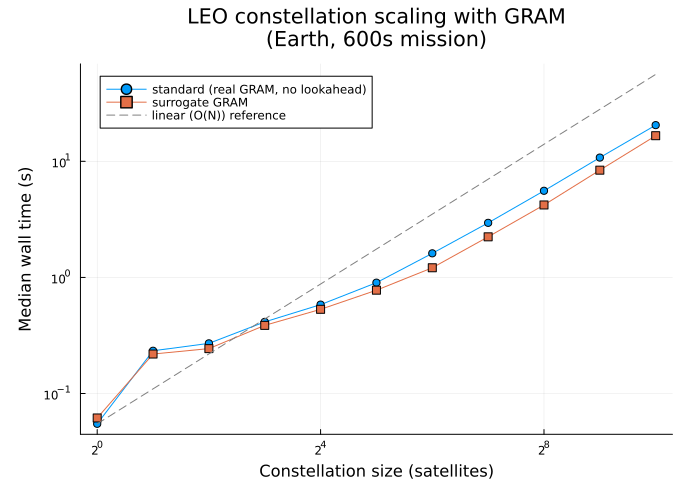
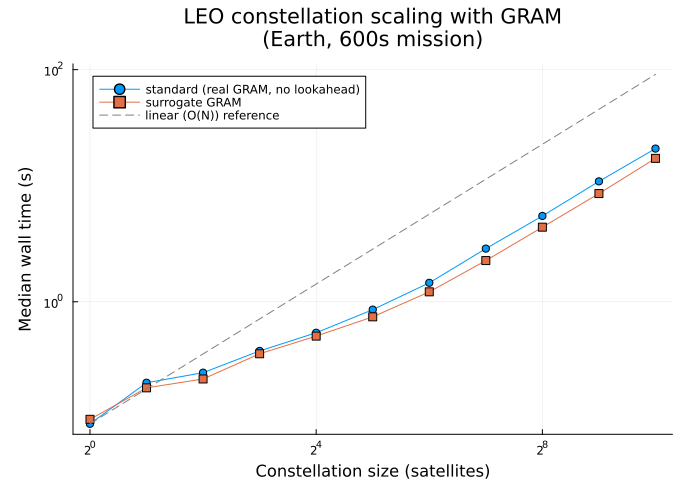
Updated docs

diff --git a/benchmarks/studies/gram_mars_fix_and_constellation_scaling/PARALLELIZATION_CURRENT_STATE.md b/benchmarks/studies/gram_mars_fix_and_constellation_scaling/PARALLELIZATION_CURRENT_STATE.md
@@ -9,9 +9,18 @@ from commit history and the two other docs in this folder
 `THREAD_ALLOCATION_AND_GRAM_CONCURRENCY_HANDOFF.md`'s Findings 1-7), which
 remain the detailed, dated record this document summarizes.
 
-**Nothing described below as "uncommitted" has been pushed.** Only the GRAM
-constructor lock and CSPICE/SPICE lock unification (first bullet below) are
-committed and pushed.
+**Everything described in this document is now committed** (parent repo
+`1ba63a82` + `f857a41c`, submodule `c7b66e0`). Push status as of this
+writing: the parent repo's `parllelization_paper` branch is already in sync
+with `origin/parllelization_paper` (confirmed via `git fetch` + `git
+rev-list`) -- neither commit was pushed by an explicit `git push` in this
+session, so this was pushed some other way (auto-sync, or by the user
+directly) and is worth confirming with the user rather than assumed. The
+submodule's `c7b66e0` is *not* on `origin/main` yet (1 commit ahead locally)
+-- push it explicitly if the parent's submodule pointer update should
+resolve for anyone else who clones/pulls. Any "uncommitted" language left
+below is a holdover from when this doc was first written and should be read
+as historical, not current.
 
 ## 1. What's fixed
 
@@ -26,7 +35,7 @@ threads racing on what is, underneath, the *same* global CSPICE state.
 so every GRAM density call and every SPICE ephemeris call serialize against
 each other, not just against their own kind.
 
-### 1b. GRAM model construction thread-safety (uncommitted, in the `data/GRAMSuite.jl` submodule)
+### 1b. GRAM model construction thread-safety (committed: submodule `c7b66e0`)
 
 Density *sampling* (`getDensity`/`density_state`/`point_density_state`) was
 already correctly locked. Model *construction*
@@ -38,7 +47,7 @@ caused every native-GRAM Monte Carlo/ensemble campaign to crash outright at
 `outer_workers >= 2` before this work. Fixed by wrapping the constructor body
 in the same `_with_gram_lock`/`GRAM_LOCK` used for sampling.
 
-### 1c. World-age / `invokelatest` fixes (uncommitted, same submodule)
+### 1c. World-age / `invokelatest` fixes (committed: submodule `c7b66e0`)
 
 A second, unrelated bug surfaced only by the new `:process` route (section 2):
 GRAM's native wrapper module is dynamically `Base.include`d on first-ever
@@ -68,7 +77,7 @@ plain-data constructor arguments, reconstruct via the now-locked constructor
 on the receiving side) -- needed for a `SimulationConfiguration` carrying a
 GRAM density model to cross a `Distributed` process boundary at all.
 
-### 1d. Density-callback 16-thread auto-gate made density-model-aware (uncommitted)
+### 1d. Density-callback 16-thread auto-gate made density-model-aware (committed: parent `f857a41c`)
 
 Unrelated to the GRAM/CSPICE work above, but the same "parallelization
 correctness/tuning" family. `SPACEAGORA_DENSITY_CALLBACK_PARALLEL=auto`'s
@@ -88,7 +97,7 @@ unconditional 16-thread floor).
 ## 2. What's new: `SpaceAGORA.ParallelProcess`
 
 A shared, auto-bootstrapping `Distributed` worker pool
-(`src/parallel/process/`, uncommitted), wired into `run_monte_carlo` and
+(`src/parallel/process/`, committed: parent `1ba63a82`), wired into `run_monte_carlo` and
 `run_constellation_ensemble`'s adaptive `threads=:auto` routing as a real
 `:process` outer-parallel route -- separate OS processes, so there's no
 shared native GRAM/CSPICE global state to contend over in the first place.
@@ -237,21 +246,29 @@ folder; full before/after table in the handoff doc's Finding 6.
 
 | Change | Location | Status |
 |---|---|---|
-| GRAM/SPICE lock unification | parent repo + submodule | **committed, pushed** |
-| GRAM constructor lock | submodule | uncommitted |
-| World-age/`invokelatest` fixes | submodule | uncommitted |
-| Serialization for GRAM models | submodule | uncommitted |
-| `SpaceAGORA.ParallelProcess` | parent repo (`src/parallel/process/`) | uncommitted |
-| Adaptive routing `:process` wiring | parent repo | uncommitted |
-| New/extended benchmarks (this folder) | parent repo | uncommitted |
-| `export`/`@doc`/`checkdocs`/generated-API-page entries for `ParallelProcess` | parent repo (`src/SpaceAGORA.jl`, `docs/make.jl`, `docs/public_api_symbols.jl`) | uncommitted, **done and verified** (`docs/make.jl` builds clean) |
-| Density-callback lock-free auto-gate | parent repo (`src/parallel/policy/env_config.jl`, `src/core/types/runtime_types.jl`, `src/simulation/callbacks/density_callbacks/config.jl`) | uncommitted, **done and verified** |
-| Phase 3 fix: `outer_parallel_active` gating for `_rhs_execution_plan`'s 3 multi-worker branches | parent repo (`src/simulation/engine/setup.jl`, `src/core/types/runtime_types.jl`) | uncommitted, **done and verified** (direct repro + full test suite) |
+| GRAM/SPICE lock unification | parent repo + submodule | **committed** (submodule `b66e1b8`, parent `444a23c5`), **pushed** |
+| GRAM constructor lock | submodule | **committed** (`c7b66e0`, bundled with the row below) |
+| World-age/`invokelatest` fixes | submodule | **committed** (`c7b66e0`), **not pushed** (`origin/main` for the submodule is 1 commit behind) |
+| Serialization for GRAM models (both submodule and `ext/SpaceAGORAGRAMSuiteExt.jl` wrapper layers) | submodule + parent | **committed** (submodule `c7b66e0`, parent `1ba63a82`) |
+| `SpaceAGORA.ParallelProcess`, `warmup_fn` cold-start fix | parent repo (`src/parallel/process/`) | **committed** (`1ba63a82`) |
+| Adaptive routing `:process` wiring | parent repo | **committed** (`1ba63a82`) |
+| New/extended benchmarks (this folder) | parent repo | **committed** (`1ba63a82`) |
+| `export`/`@doc`/`checkdocs`/generated-API-page entries for `ParallelProcess` | parent repo (`src/SpaceAGORA.jl`, `docs/make.jl`, `docs/public_api_symbols.jl`) | **committed** (`1ba63a82`), verified (`docs/make.jl` builds clean) |
+| Density-callback lock-free auto-gate | parent repo (`src/parallel/policy/env_config.jl`, `src/core/types/runtime_types.jl`, `src/simulation/callbacks/density_callbacks/config.jl`) | **committed** (`1ba63a82`), verified |
+| Phase 3 fix: `outer_parallel_active` gating for `_rhs_execution_plan`'s 3 multi-worker branches | parent repo (`src/simulation/engine/setup.jl`, `src/core/types/runtime_types.jl`) | **committed** (`1ba63a82`), verified (direct repro + full test suite) |
+| Golden regression fixture (`test/golden/agora_earth_regression.csv`) for the previously-`@test_skip`'d "AGORA Earth Regression (Golden)" test | parent repo | **committed** (`1ba63a82`) |
 
-`test/suites/01_contract_and_api_tests.jl` has the user's own unrelated
-pre-existing WIP mixed into the same file -- committing the GRAM_LOCK
-contract-test fix needs patch-level staging (`git add -p`), not a whole-file
-add.
+`test/suites/01_contract_and_api_tests.jl` had the user's own unrelated
+pre-existing WIP (an `ODEParams{N}` -> `ODEParams(n_sats=N, ...)` refactor,
+removing `ODEParams`/`SharedBuffers`'s `N_sats` type parameter in favor of a
+runtime field) mixed into the same file as the GRAM_LOCK contract-test fix --
+resolved via patch-level staging (hand-built `git apply --cached` patches for
+the isolated hunks, not a whole-file add) so the two changes landed in
+separate commits: the GRAM_LOCK hunk is part of `1ba63a82`; the user's own
+refactor (touching many more files across `src/`, `test/`, and
+`benchmarks/studies/`, unrelated to this document's parallelization scope)
+was committed separately afterward as `f857a41c`, excluding two `.png` plot
+outputs left for regeneration.
 
 ## 6. Where to look next
 

diff --git a/docs/src/user/parallel_execution.md b/docs/src/user/parallel_execution.md
@@ -206,6 +206,52 @@ inside another campaign's worker, where `SPACEAGORA_OUTER_PARALLEL_ACTIVE` is
 already set) yield to the enclosing split: they execute serially and record no
 feedback, so contended timings never poison the shared route statistics.
 
+The spherical-harmonics gravity SIMD batch route is a separate hot path that
+fires on every RHS/ODE step rather than once per sample, so historically it
+did not check `SPACEAGORA_OUTER_PARALLEL_ACTIVE` before spawning its own
+nested worker batch — under `:threads` outer parallelism this produced severe
+nested contention (anywhere from ~1x overhead to multi-minute hangs on
+otherwise-identical runs). It now defaults to running serially whenever outer
+parallelism is active. Only set `SPACEAGORA_HARMONICS_BATCH_ALLOW_WITH_OUTER=1`
+if you have measured that splitting the thread budget between outer workers
+and the harmonics batch is actually faster for your workload; the default is
+the safe choice.
+
+### Process-backend outer parallelism
+
+When the outer-route bandit picks `:process` (or when you want to control it
+directly), campaigns dispatch to `SpaceAGORA.ParallelProcess`, a small
+`Distributed`-based worker pool built for this purpose:
+
+```julia
+pool = campaign_process_pool()
+worker_ids = ensure_process_workers!(pool, 8)
+```
+
+- `campaign_process_pool()` returns the process-global `ProcessPool` that
+  `threads=:auto` campaigns already share; reusing it avoids repaying the
+  one-time `SpaceAGORA`/`GRAMSuite` worker precompilation cost on every call.
+- `ensure_process_workers!(pool, n; warmup_fn=nothing)` grows the pool to at
+  least `n` workers (spawning only the shortfall via `addprocs`), bootstraps
+  each new worker with `SpaceAGORA`, `GRAMSuite` (best-effort), and the
+  default SPICE kernel set, and returns the current worker ids. Pass
+  `warmup_fn` — a zero-argument closure that mirrors the real per-sample call
+  — to also pay a new worker's full JIT/specialization cost once up front
+  (measured at roughly 70 s cold vs. a fraction of a second warm) instead of
+  inside the first real, timed dispatch.
+- `shutdown_process_pool!(pool)` removes every worker via `rmprocs` and
+  clears the pool; mainly useful for tests, since campaign code otherwise
+  leaves the process-global pool warm across calls by design.
+
+Each process worker is started with `--threads=1`, so it does not share the
+coordinator's Julia thread pool: inner thread-based parallelism inside a
+worker's own `run_simulation` call is unaffected by how many process workers
+are active. A campaign built on a non-default SPICE kernel directory, or a
+non-Earth-primary mission whose kernels aren't in the shared default set,
+must still furnish its own kernels on the pool's workers (for example via
+`remotecall_wait` on `ensure_process_workers!`'s return value) before
+dispatching.
+
 ### GRAM atmosphere models in threaded campaigns
 
 Native GRAM calls are serialized through a single process-wide lock by default,
@@ -273,13 +319,22 @@ of paying per-timestep thread dispatch across satellites) and lets each
 satellite keep its own adaptive step size (instead of forcing every satellite
 to the global minimum step).
 
-Current limitation: with in-process worker threads, per-step
-environment-variable configuration reads in the RHS and callback plumbing
-serialize concurrent members (Julia `ENV` access is process-global), which can
-erase the outer-parallel gain for light dynamics. Until those reads are hoisted
-to run setup, prefer process-based outer parallelism for large campaigns — the
-per-satellite split applies the same way with one satellite per worker process
-(see [Distributed and HPC](../distributed_hpc.md)).
+Current limitation: with in-process worker threads (the `:threads` outer
+route), per-step environment-variable configuration reads in the RHS and
+callback plumbing serialize concurrent members (Julia `ENV` access is
+process-global), which can erase the outer-parallel gain for light dynamics.
+
+The `:process` outer route avoids this: each satellite is dispatched to its
+own OS process with its own `ENV`, GRAM lock, and thread pool, so members
+never contend on process-global state. Pass `threads=:auto` and the
+outer-route bandit (`select_outer_route!`) will pick `:process` itself for
+workload shapes where it wins, auto-bootstrapping a `Distributed` worker pool
+via `ensure_process_workers!` — no manual `addprocs` call or cluster setup is
+required for this library-level path. See
+[Process-backend outer parallelism](#process-backend-outer-parallelism)
+below. Multi-node/scheduler launches for benchmark and study scripts are a
+separate, explicit-`addprocs` path — see
+[Distributed and HPC](../distributed_hpc.md).
 
 The runner refuses configurations with guidance, navigation, or control
 effectors, because effectors that coordinate satellites cannot act across

diff --git a/docs/src/distributed_hpc.md b/docs/src/distributed_hpc.md
@@ -20,8 +20,9 @@ What to read next:
 - [Maintainer Overview](maintainer/index.md)
 
 SpaceAGORA's supported distributed execution surface today is centered on
-multi-process benchmark and study workflows, plus deterministic parallel-policy
-hint persistence.
+multi-process benchmark and study workflows, self-bootstrapping process-backend
+outer parallelism for library-level campaigns, and deterministic
+parallel-policy hint persistence.
 
 This is not a promise that every runtime path is cluster-hardened. It is the
 documented path that currently has real ownership in the repository.
@@ -43,6 +44,56 @@ The key environment knobs are:
 
 Use `.` (the root project) as the worker project unless you have a deliberate
 reason to point workers at a different environment.
+
+## Campaign-level process backend
+
+For library-level campaigns (`run_monte_carlo`, `run_constellation_ensemble`),
+process-worker parallelism does not require any of the manual `addprocs` or
+scheduler setup below. Passing `threads=:auto` lets the adaptive outer-route
+bandit choose the `:process` route itself for workload shapes where it wins,
+and auto-bootstraps a `Distributed` worker pool through
+`SpaceAGORA.ParallelProcess`:
+
+```julia
+result = run_monte_carlo(1:100; threads=:auto) do seed
+    run_simulation(make_config_for_seed(seed); return_solution=true)
+end
+```
+
+Under the hood this uses `campaign_process_pool()` (the process-global
+`ProcessPool` shared across campaigns in the session) and
+`ensure_process_workers!(pool, n; warmup_fn=...)`, which spawns only the
+worker shortfall, bootstraps each new worker with `SpaceAGORA`, `GRAMSuite`
+(best-effort), and the default SPICE kernel set, and optionally pays a
+representative call's JIT/specialization cost once per new worker (measured
+at roughly 70 s cold vs. a fraction of a second warm) via `warmup_fn` instead
+of inside the first real, timed dispatch. Each process worker runs with
+`--threads=1`, so it does not contend with the coordinator's thread pool.
+`shutdown_process_pool!(pool)` tears the pool down; campaign code otherwise
+leaves it warm across calls by design.
+
+See [Parallel Execution: Process-backend outer parallelism](user/parallel_execution.md#process-backend-outer-parallelism)
+for the full walkthrough. This path is entirely separate from the
+scheduler/`addprocs`-based benchmark path documented above — it needs no
+`SPACEAGORA_PERF_PROCS` or worker-project configuration, since the pool
+bootstraps itself against the coordinator's own active project.
+
+Two related tuning knobs affect how outer- and inner-parallel work share a
+machine's threads once a route is chosen:
+
+- `SPACEAGORA_HARMONICS_BATCH_ALLOW_WITH_OUTER` (default `0`) — the
+  spherical-harmonics gravity SIMD batch route fires once per RHS/ODE step
+  rather than once per sample, so by default it runs serially whenever outer
+  parallelism (`:threads` or `:process`) is active, rather than spawning a
+  nested worker batch that would contend with the outer split. Only enable
+  this after measuring that splitting the thread budget helps your workload.
+- `SPACEAGORA_DENSITY_CALLBACK_PARALLEL` (`off`/`auto`/`on`) — the density
+  callback's inner-parallelism thread floor is lower for the lock-free GRAM
+  surrogate than for native GRAM (which serializes through a process-wide
+  lock regardless of thread count), so `auto` picks a different effective
+  floor per density-model family. See
+  [Parallel Execution](user/parallel_execution.md) for the full control
+  matrix.
 
 ## Deterministic hint state
 
@@ -110,6 +161,8 @@ The current first-class distributed support is:
 
 - process-worker benchmark and study execution
 - deterministic persistent-hint state for parallel-policy tuning
+- self-bootstrapping process-backend outer parallelism for `run_monte_carlo`
+  and `run_constellation_ensemble` campaigns (`SpaceAGORA.ParallelProcess`)
 
 The following are not yet treated as a full cluster product surface:
 

diff --git a/docs/src/user/simulation_configuration.md b/docs/src/user/simulation_configuration.md
@@ -138,9 +138,10 @@ continuous atmosphere scenarios or full entry trajectories).
 
 ## EnvironmentModel
 
-Wires together the planet, atmosphere, ephemerides, and thermal model. All
-four of these must be provided; there are no defaults for `planet` or
-`density_model`.
+Wires together the planet, atmosphere, ephemerides, and thermal model. Only
+`planet`, `EI`, `density_model`, and `thermal_model` are required; the rest
+have defaults: `ephemerides_model` defaults to `SM.SpiceEphemeridesModel()`,
+`wind` defaults to `true`, and `topo_degree`/`topo_order` default to `90`.
 
 ```julia
 planet = SM.make_no_gram_planet(:earth)
@@ -194,7 +195,9 @@ SM.SimulationSettings(
     results            = true,           # write output files
     verbose            = false,          # print solver diagnostics
     results_directory  = "output",       # directory for CSV and bundle output
-    generate_plots     = false,          # reserved; disable for CLI runs
+    generate_plots     = true,           # generate plots after simulation (default)
+    generate_filenames = false,          # embed run parameters in output filenames (default)
+    normalize          = false,          # legacy compatibility flag; typed run_simulation propagates SI state directly (default)
     save_csv           = true,           # write CSV alongside the Feather bundle
     checkpoint_enabled = false,          # periodic checkpoint for restart safety
     checkpoint_interval_s = 300.0,      # checkpoint cadence, simulated seconds
@@ -204,7 +207,9 @@ SM.SimulationSettings(
 ```
 
 Set `results = false` to run without writing any output (useful for
-performance profiling or validation-only runs).
+performance profiling or validation-only runs). Set `generate_plots = false`
+to skip plot generation, which is typically what you want for CLI/batch runs
+and performance studies.
 
 ## FilePaths
 

diff --git a/docs/src/user/studies_benchmarks.md b/docs/src/user/studies_benchmarks.md
@@ -115,7 +115,9 @@ Run [GRAMSuite Setup](gramsuite_setup.md) before using GRAM-backed studies.
 | Area | Scripts |
 |---|---|
 | GRAM fidelity | `gram_full_vs_trajectory_density_compare.jl`, `gram_interpolation_vs_point_to_point_analysis.jl`, `gram_single_call_vs_point_to_point_analysis.jl`, `gram_offline_db_accuracy_study.jl`, `gram_planet_rho_altitude_sweep.jl`, `gram_real_sim_runtime_compare.jl`, `gram_real_sim_surrogate_matrix.jl`, `gram_real_sim_surrogate_decision_table.jl`, `gram_trajectory_lookahead_fidelity/main.jl` |
+| GRAM Mars fix and constellation scaling | `gram_mars_fix_and_constellation_scaling/{mars_150km_gram_scaling.jl, earth_standard_gram_scaling.jl, earth_surrogate_gram_scaling.jl, leo_constellation_size_scaling.jl, leo_ensemble_outer_backend_scaling.jl, leo_thread_scaling_by_mode.jl, mc_multisat_process_backend.jl, mc_multisat_thread_allocation.jl}` — see the directory's `README.md` for the Mars ephemeris-bypass fix background and `PARALLELIZATION_CURRENT_STATE.md` for current constellation-scaling findings |
 | Performance support | `performance_effector_reduction_microbench.jl`, `performance_split_imex_compare.jl`, `performance_static_vs_parallel.jl`, `performance_thread_scaling_1024.jl`, `performance_thread_scaling_64_aero_gram.jl`, `performance_hybrid_scaling_64_aero_gram.jl`, `performance_mc_thread_scaling.jl`, `performance_smart_parallel_ladder_cross_machine.jl` |
+| Parallelization paper benchmarks | `paper_parallelization_benchmarks.jl`, `parallelization_performance.jl` — each has a same-named subdirectory with its own `protocol.sh`, `cli.jl`, and `CASES.md` case catalog |
 | Tuning and validation | `telemetry_hybrid_tuner.jl`, `telemetry_odyssey_tuner.jl`, `cygnss_estimator_validation.jl` |
 
 For long studies, set an explicit output directory and keep the terminal log with

diff --git a/docs/src/extensibility.md b/docs/src/extensibility.md
@@ -139,17 +139,26 @@ Template:
 
 - `templates/control_hook_template.jl`
 
-## Planet and ephemerides extensions
+## Planet, ephemerides, thermal, thruster, and guidance extensions
 
 Stable interfaces:
 
 - `SpaceAGORA.AbstractPlanet`
 - `SpaceAGORA.AbstractEphemeridesModel`
+- `SpaceAGORA.AbstractThermalModel`
+- `SpaceAGORA.AbstractThrusterModel`
+- `SpaceAGORA.AbstractGuidanceModel`
 
 These interfaces are public because no-GRAM onboarding and future user-defined
-body/back-end work need a stable contract, but the practical extension recipes
-for custom planets and ephemerides are still thinner than the force/density/
-control paths above. Treat them as advanced extension points.
+body/back-end, thermal, thruster, and guidance work need a stable contract,
+but the practical extension recipes for these types are still thinner than
+the force/density/control paths above: there is no single dedicated root
+hook function to implement (thermal models are consumed inside the
+force/torque and heat-load machinery, thruster models inside control
+effectors, and guidance models inside the GNC control hooks). Treat them as
+advanced extension points — subtype the abstract type and follow an existing
+implementation in `src/vehicle/thermal/`, `src/vehicle/actuators/thruster/`,
+or `src/gnc/guidance/` as a model rather than a documented recipe.
 
 ## Design guidance
 

diff --git a/docs/src/user/outputs.md b/docs/src/user/outputs.md
@@ -156,3 +156,13 @@ SM.SimulationSettings(
 A crashed or interrupted run can be resumed by setting
 `resume_from_checkpoint = true` in `SimulationSettings`. The checkpoint
 directory defaults to `results_directory/checkpoints` when left empty.
+
+## Campaign and multi-process runs
+
+`run_monte_carlo` and `run_constellation_ensemble` samples each call
+`run_simulation` independently (per-sample `results_directory` and
+`SimulationSettings` come from whatever `SimulationConfiguration` your
+per-seed closure returns), so the file layout above applies per sample
+whether the outer route is serial, threaded, or process-backed. See
+[Parallel Execution](parallel_execution.md) for how to select and configure
+outer routing.

diff --git a/docs/src/user/installation_environment.md b/docs/src/user/installation_environment.md
@@ -18,6 +18,11 @@ What to read next:
 - [Assets & Modes](../assets.md)
 - [Distributed and HPC](../distributed_hpc.md)
 
+## Julia version
+
+The root `Project.toml` pins `julia = "1.12"`. Install that Julia release
+before instantiating either project.
+
 ## The repository environments
 
 ### Root project (`--project=.`)
